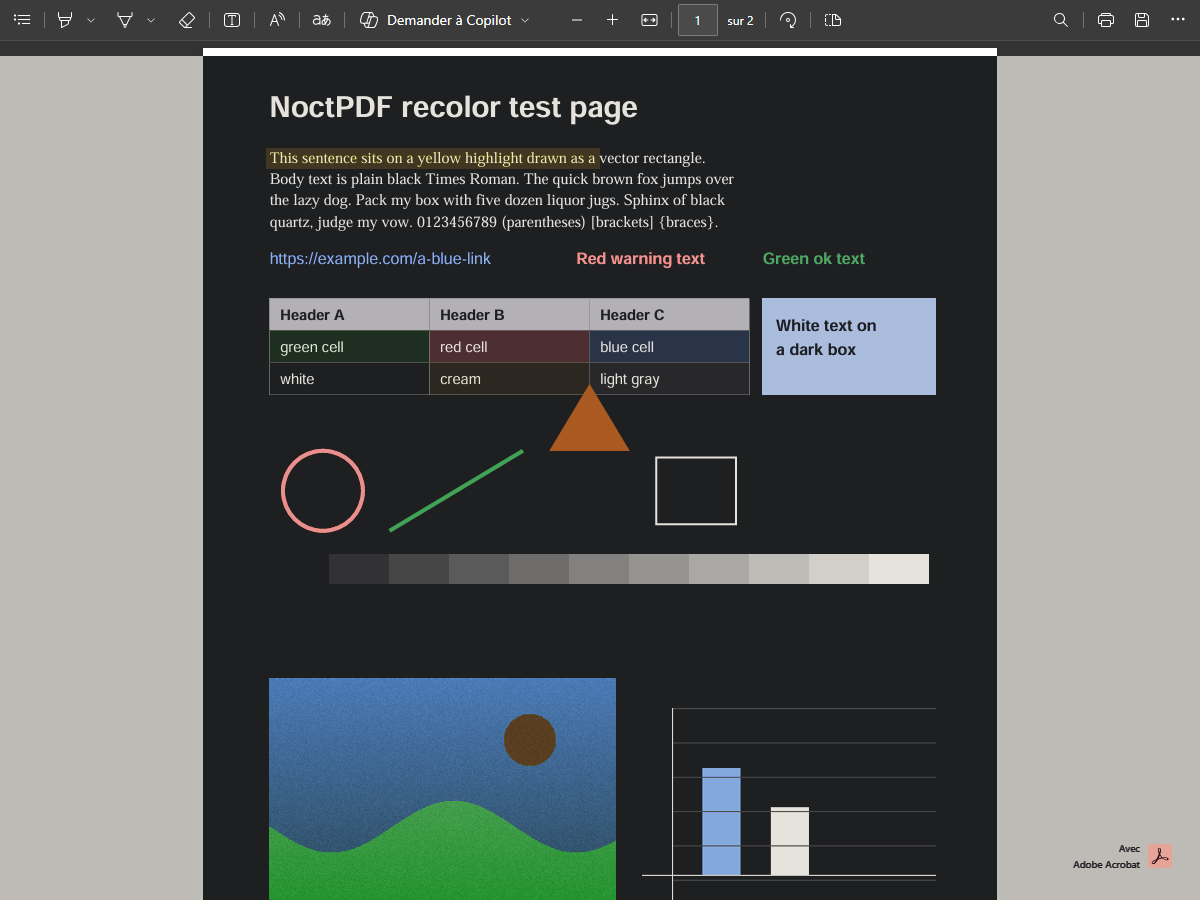
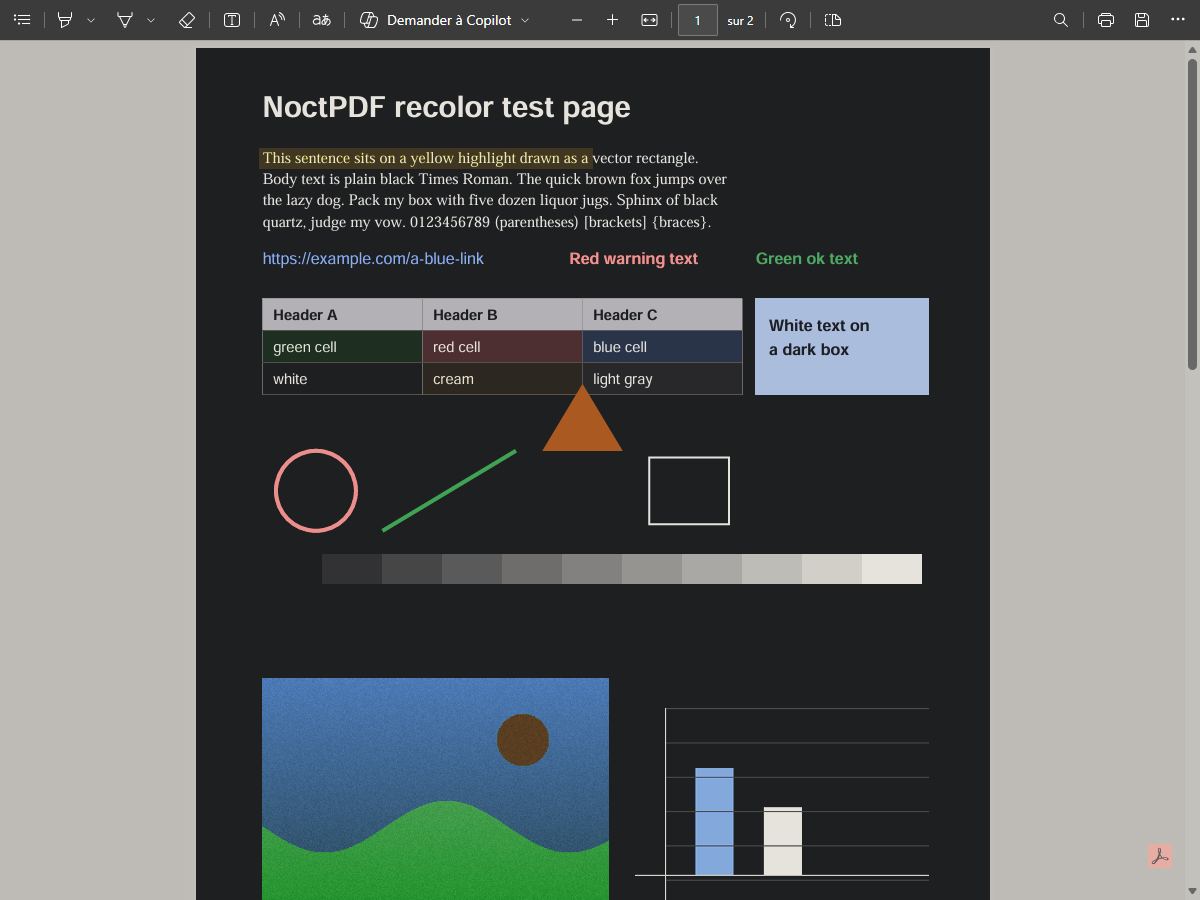
Phase 0: correct the Edge inset and record the validated decisions
The first Edge capture used the prototype's 56 px inset and left an
uncovered white band. Measured again: 40 px toolbar plus a 1 px border,
so the Edge default inset is 41 px; capture redone with it. The findings
now also admit that the gray ramp fix was never verified by a capture,
and list the decisions validated for phase 1.

diff --git a/docs/phase0-findings.md b/docs/phase0-findings.md
@@ -81,7 +81,7 @@ Différences observées :
 
 Défauts du modèle couleur du prototype, à corriger en phase 2 :
 
-- Le garde-fou de contraste s'appliquait à toutes les couleurs sombres : il écrasait les gris moyens de la rampe. Corrigé dans le prototype en ne l'appliquant qu'aux couleurs saturées (les gris suivent déjà le dégradé `bg` vers `fg`).
+- Le garde-fou de contraste s'appliquait à toutes les couleurs sombres : il écrasait les gris moyens de la rampe (cases 4 à 7 identiques, vers `#8c8c8c`, avec un saut juste avant ; visible sur `recolor-shader.png`, `recolor-hook.png` et `recolor-compare.png`). Correction relevée à la relecture : j'ai modifié le code du prototype (garde-fou limité aux couleurs saturées) **après** les captures, sans refaire de capture pour le vérifier. Le bug n'est donc pas démontré corrigé ; il est traité en phase 2 avec un test de monotonie et des captures avant/après.
 - Les éléments déjà sombres (en-tête de tableau gris foncé, encadré bleu nuit) deviennent clairs. C'est la nature d'une inversion de luminance ; une option "préserver les aplats sombres" sera étudiée en phase 2.
 
 ### Performance (Chrome 153 headless, GPU Iris Plus réel via ANGLE)
@@ -193,9 +193,9 @@ La pile `mix-blend-mode` (`difference`, puis `screen` et `multiply`) marche auss
 |---|---|---|
 | Chrome 153 | PDFium, OOPIF (`viewer-toolbar`) | **56 px** |
 | Opera GX 136 | identique à Chrome | **56 px** |
-| Edge 154 | lecteur Adobe Acrobat (mention "Avec Adobe Acrobat"), autre structure de frames | **40 px** |
+| Edge 154 | lecteur Adobe Acrobat (mention "Avec Adobe Acrobat"), autre structure de frames | **40 px + 1 px de bordure** |
 
-Edge : le moteur B y fonctionne avec un inset de 40 px. On détectera Edge par `navigator.userAgentData.brands` pour choisir l'inset par défaut, plutôt que de déclarer le moteur B non supporté.
+Edge : **inset par défaut de 41 px**. Correction après relecture : la première capture Edge avait été prise avec l'inset de 56 px du prototype, d'où une bande blanche de 8 px non couverte en haut de la page (lignes 48 à 55). Nouvelle mesure, ligne par ligne à x = 600 : lignes 0 à 39 pour la barre (`#3b3b3b`), ligne 40 pour sa bordure (`#4f4f4f`), lignes 41 à 47 pour le fond autour de la page, page à partir de la ligne 48. Avec un inset de 40, la page est entièrement couverte mais la bordure passe en gris clair (`#a8a6a2`) ; 41 px la laisse intacte. La capture `native-edge-backdrop-svg.png` a été refaite en fenêtré avec l'inset corrigé. On détectera Edge par `navigator.userAgentData.brands` pour choisir l'inset par défaut, plutôt que de déclarer le moteur B non supporté.
 
 Limites confirmées (impossibles à contourner) :
 
@@ -215,10 +215,12 @@ Filtre "legacy" : `filter: invert` sur l'embed n'a plus d'effet (§ hypothèses)
 - Brave et Vivaldi : à tester dès qu'ils sont installés (même moteur Chromium, aucun écart attendu).
 - WXT : non évalué en phase 0. Point d'attention : le dossier `public/` doit recevoir `content/` tel quel pour respecter le chemin `/content/web/viewer.html`.
 
-## Questions pour validation
+## Décisions validées (27 septembre 2026)
 
-1. **Recoloration** : d'accord pour l'approche 2 (WebGL2 et traqueur d'images de PDF.js) en principal, l'approche 1 en repli ?
-2. **Espace couleur** : OKLab plutôt que CIELAB (doq) ? OKLab est plus uniforme perceptivement, conserve mieux les teintes bleues, et sa formule est courte, facile à porter en GLSL.
-3. **Base PDF.js** : build `chromium` 6.3.289, dossier `content/` seulement, notre propre service worker, patch d'une ligne dans `viewer.html` ?
-4. **Moteur B** : filtre SVG par défaut, inset 56 px (Chrome, Opera) ou 40 px (Edge), suppression de l'option "legacy" ?
-5. **Node.js** : il n'est pas installé. Je propose `winget install OpenJS.NodeJS.LTS` (Node 24 LTS). Préfères-tu l'installer toi-même, ou utiliser un gestionnaire de versions (fnm, Volta) ?
+1. **Recoloration** : approche 2 (WebGL2) en principal. Le repli n'est **pas** un `DrawHookRecolorer` complet : c'est le même modèle couleur (la référence TypeScript) exécuté en CPU dans un Worker, pour garder les mêmes fonctions. Il sera fait en phase 6. L'interception canvas ne sert plus qu'en mode enregistrement, pour le futur garde-fou de contraste local.
+2. **Espace couleur** : OKLab, avec OKLCh pour les manipulations de teinte et de chroma.
+3. **Base PDF.js** : build `chromium` 6.3.289, dossier `content/` seul, versionné compilé dans `vendor/` (aucun build de PDF.js à l'installation), notre service worker, patch d'une ligne. `minimum_chrome_version` à `"128"`, sans repli pour les versions antérieures.
+4. **Moteur B** : filtre SVG par défaut, option "legacy" supprimée. Inset Edge corrigé à 41 px (voir § 5).
+5. **Node.js** : fnm, avec un `.node-version` (24 LTS) à la racine du dépôt.
+
+Les problèmes relevés sur les captures et les risques à couvrir sont suivis dans `docs/backlog.md`.
